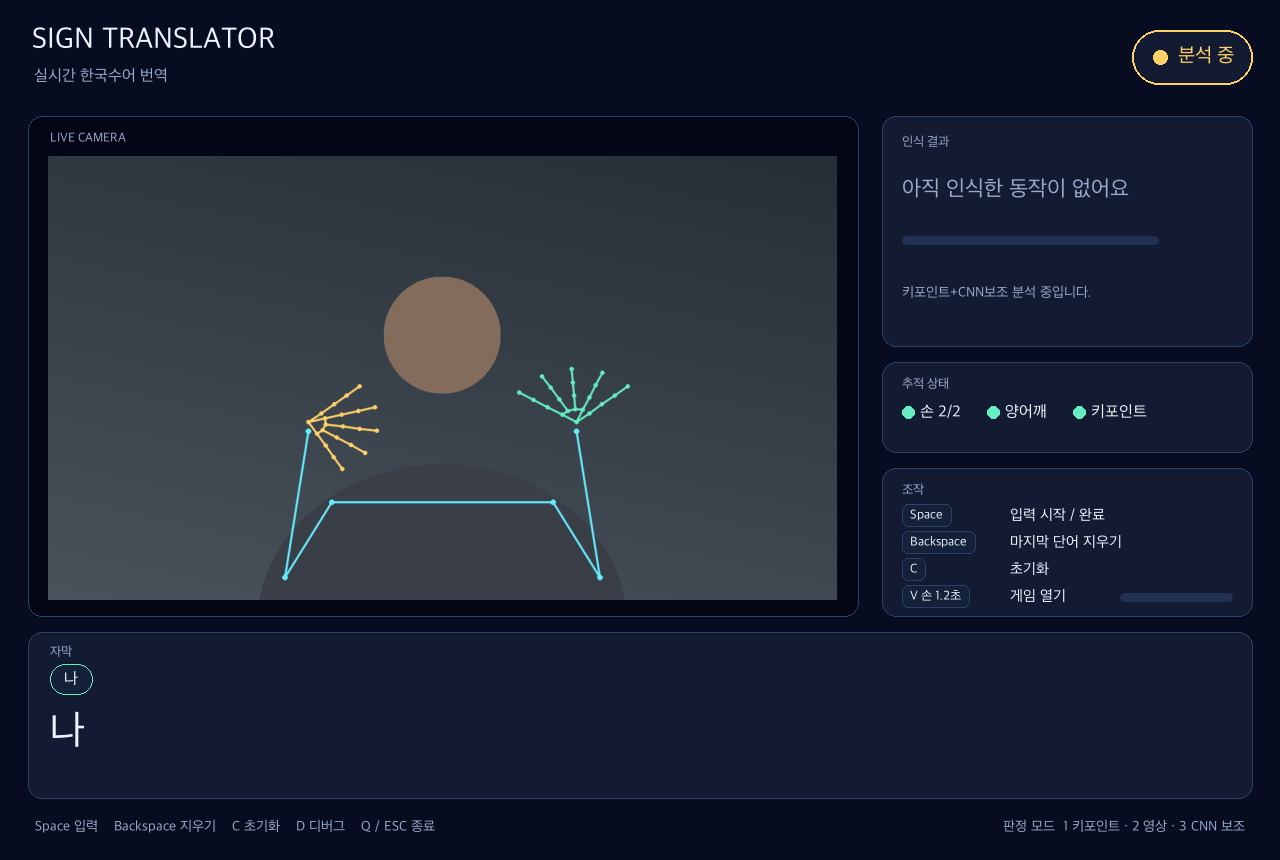
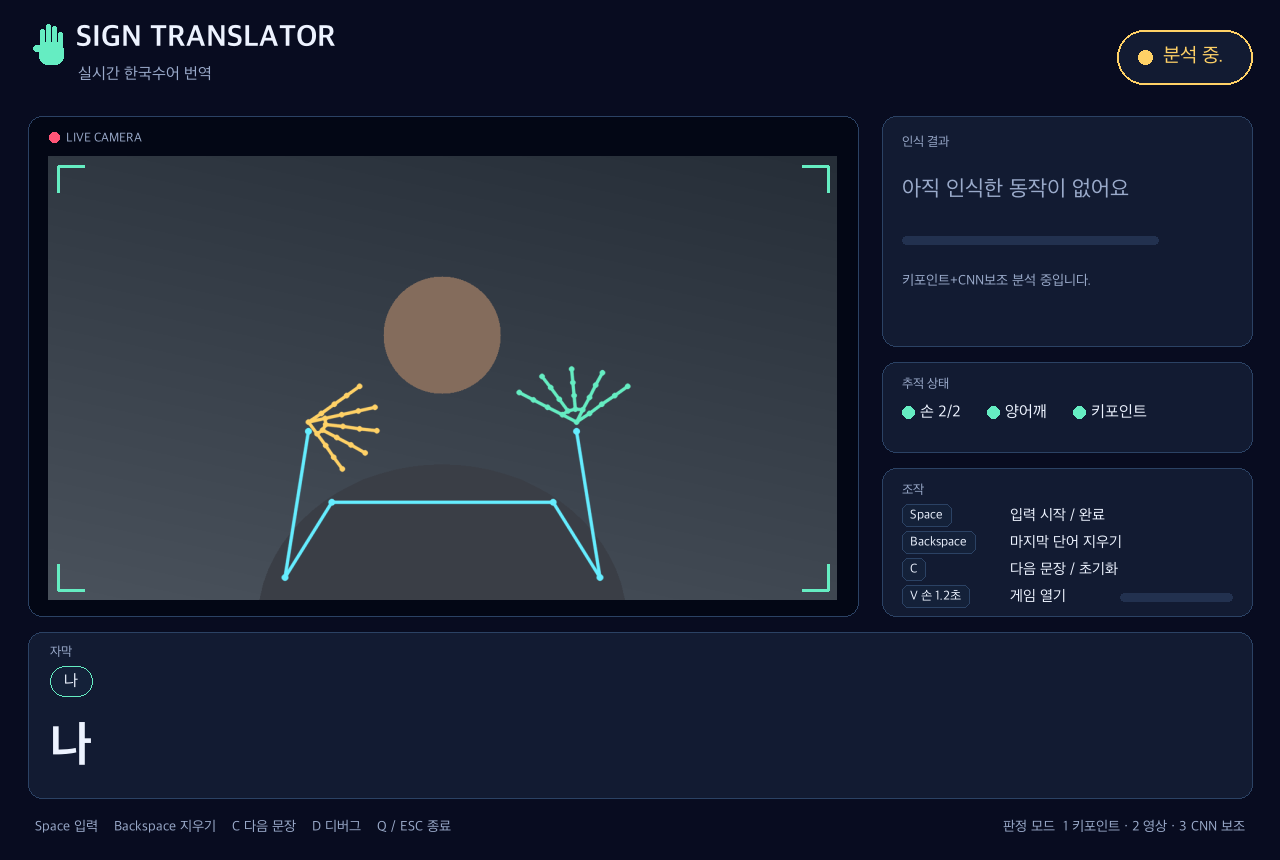
feat(ui): demo polish for the translator screen
- New result pops in (larger word, mint card border for 0.6 s) and the
  newest token chip is filled for 2 s.
- Tracking problems and camera reconnects show as a banner over the
  camera; recording shows a red progress bar against the 12 s limit.
- Subtitle: bold sentence up to 48 px, centred in the card, with the last
  two earlier sentences shown as 'previous'.
- Analyzing badge animates its dots (fixed width, no jitter); game hand-off
  card; viewfinder brackets and LIVE dot on the camera; thicker skeleton.
- Bold title with a drawn hand mark (theme.bold() finds malgunbd, Nanum/
  Noto Bold or the Bold face in a .ttc, else regular).
- Result card lists the last three accepted results.
- New preview PNGs: flash, game hand-off, reconnecting.

diff --git a/ui/translator_view.py b/ui/translator_view.py
@@ -3,7 +3,7 @@
 The camera loop builds a TranslatorState and calls draw_translator(); nothing
 here touches recognition or camera state.
 """
-from dataclasses import dataclass, field
+from dataclasses import dataclass
 from typing import Optional
 import cv2
 import numpy as np
@@ -12,37 +12,45 @@ from ui import theme
 from ui.theme import font
 
 CAMERA_BOX = (28, 116, 858, 616)
+CAMERA_VIEW = (48, 156, 838, 600)      # 790x444 (16:9) image well inside the camera card.
 RESULT_BOX = (882, 116, 1252, 346)
 TRACKING_BOX = (882, 362, 1252, 452)
 CONTROLS_BOX = (882, 468, 1252, 616)
 DEBUG_BOX = (882, 362, 1252, 616)      # Replaces tracking + controls while open.
 SUBTITLE_BOX = (28, 632, 1252, 798)
+FLASH_SECONDS = .6                     # New-result highlight.
+FRESH_SECONDS = 2.                     # Newest token chip stays filled.
 
 
 @dataclass
 class TranslatorState:
-    camera: np.ndarray                    # Mirrored BGR preview, skeleton already drawn.
-    now: float = 0.                       # Drives the blinking REC dot.
-    status: str = 'ready'                 # ready | recording | analyzing
+    camera: Optional[np.ndarray]          # Mirrored BGR preview, skeleton already drawn.
+    now: float = 0.                       # Drives blinking / animated dots.
+    status: str = 'ready'                 # ready | recording | analyzing | reconnecting
     elapsed: float = 0.                   # Seconds recorded so far.
+    record_limit: float = 12.             # Recording auto-cancels after this.
     event: Optional[dict] = None          # Last recognition: accepted/text/score/kind/candidates.
+    event_age: Optional[float] = None     # Seconds since `event` was newly accepted.
     message: str = ''
     tokens: tuple = ()                    # Recognised word texts, in order.
     sentence: str = ''
+    history: tuple = ()                   # Earlier sentences, oldest first.
+    recent: tuple = ()                    # Latest accepted results [(text, score)], newest first.
     hands: int = 0
     shoulders: bool = False
     keypoints: bool = False
     tracking_note: str = ''
+    camera_note: str = ''                 # Banner over the camera (e.g. reconnecting).
     game_progress: Optional[float] = None  # None: V-sign shortcut off.
     game_note: str = ''
+    overlay: Optional[tuple] = None       # (title, text) centred pop-up, e.g. game transition.
     debug: bool = False
     debug_lines: tuple = ()
     rois: Optional[np.ndarray] = None
-    extra: dict = field(default_factory=dict)
 
 
-def _text(draw, x, y, value, size=theme.BODY, color=theme.TEXT, anchor=None):
-    draw.text((x, y), str(value), font=font(size), fill=color, anchor=anchor)
+def _text(draw, x, y, value, size=theme.BODY, color=theme.TEXT, anchor=None, face=None):
+    draw.text((x, y), str(value), font=face or font(size), fill=color, anchor=anchor)
 
 
 def _ellipsis(draw, value, width, size):
@@ -75,41 +83,99 @@ def _key(draw, x, y, label):
     return x + width
 
 
+def _pill(draw, x, y, label, size, filled=False, color=theme.ACCENT, height=30):
+    """Rounded chip; returns its right edge."""
+    width = draw.textlength(label, font=font(size)) + 2*max(10, height//2-1)
+    draw.rounded_rectangle((x, y, x+width, y+height), radius=height//2,
+                           fill=color if filled else theme.CARD_RAISED, outline=color)
+    _text(draw, x+width/2, y+height/2, label, size, theme.BACKGROUND if filled else theme.TEXT, 'mm')
+    return x + width
+
+
+def _translucent(image, box, color=theme.BACKGROUND, alpha=190, radius=10):
+    """Darken `box` in place (only that region is composited)."""
+    left, top, right, bottom = (int(v) for v in box)
+    region = image.crop((left, top, right, bottom)).convert('RGBA')
+    layer = Image.new('RGBA', region.size, (0, 0, 0, 0))
+    ImageDraw.Draw(layer).rounded_rectangle((0, 0, right-left-1, bottom-top-1), radius=radius,
+                                            fill=(*theme.rgb(color), alpha))
+    image.paste(Image.alpha_composite(region, layer).convert('RGB'), (left, top))
+
+
+def _hand_icon(draw, x, y, color=theme.ACCENT):
+    """Small open-hand mark drawn with shapes (no emoji/font dependency)."""
+    draw.rounded_rectangle((x+5, y+18, x+29, y+40), radius=8, fill=color)          # Palm.
+    for i, height in enumerate((17, 22, 20, 14)):                                  # Fingers.
+        left = x+6+i*6
+        draw.rounded_rectangle((left, y+22-height, left+4, y+24), radius=2, fill=color)
+    draw.rounded_rectangle((x-1, y+21, x+9, y+27), radius=3, fill=color)          # Thumb.
+
+
 def _header(draw, state):
-    _text(draw, 32, 22, 'SIGN TRANSLATOR', theme.TITLE)
-    _text(draw, 34, 66, '실시간 한국수어 번역', 16, theme.MUTED)
+    _hand_icon(draw, 34, 24)
+    _text(draw, 76, 20, 'SIGN TRANSLATOR', theme.TITLE, face=theme.bold(theme.TITLE))
+    _text(draw, 78, 64, '실시간 한국수어 번역', 16, theme.MUTED)
     if state.status == 'recording':
         color, label = theme.RECORDING, f'입력 중 {state.elapsed:.1f}초'
         blink = int(state.now*2) % 2 == 0
     elif state.status == 'analyzing':
-        color, label, blink = theme.WARNING, '분석 중', True
+        color, label, blink = theme.WARNING, '분석 중' + '.'*(int(state.now*3) % 3 + 1), True
+    elif state.status == 'reconnecting':
+        color, label, blink = theme.WARNING, '카메라 연결 중', int(state.now*2) % 2 == 0
     else:
         color, label, blink = theme.ACCENT, '입력 대기', True
-    width = draw.textlength(label, font=font(20)) + 64
+    # Fixed width per status so animated dots do not make the badge jitter.
+    sizing = {'analyzing': '분석 중...', 'recording': '입력 중 00.0초'}.get(state.status, label)
+    width = draw.textlength(sizing, font=font(20)) + 64
     left = 1252 - width
     theme.card(draw, (left, 30, 1252, 84), theme.CARD, color, radius=27, width=2)
     _dot(draw, left+28, 57, color if blink else theme.TRACK, 7)
     _text(draw, left+46, 44, label, 20, color)
 
 
+def _brackets(draw, box, color, length=26, width=3):
+    left, top, right, bottom = box
+    for x, y, dx, dy in ((left, top, 1, 1), (right, top, -1, 1), (left, bottom, 1, -1), (right, bottom, -1, -1)):
+        draw.line((x, y, x+dx*length, y), fill=color, width=width)
+        draw.line((x, y, x, y+dy*length), fill=color, width=width)
+
+
 def _camera(image, draw, state):
-    outline = theme.RECORDING if state.status == 'recording' else theme.CARD_BORDER
-    theme.card(draw, CAMERA_BOX, theme.CARD_DEEP, outline, width=2 if state.status == 'recording' else 1)
-    _text(draw, 50, 130, 'LIVE CAMERA', theme.SMALL, theme.MUTED)
-    left, top, width, height = 48, 156, 790, 444
+    recording = state.status == 'recording'
+    theme.card(draw, CAMERA_BOX, theme.CARD_DEEP, theme.RECORDING if recording else theme.CARD_BORDER,
+               width=2 if recording else 1)
+    live = state.status != 'reconnecting'
+    _dot(draw, 54, 137, theme.RECORDING if live and (not recording or int(state.now*2) % 2 == 0) else theme.TRACK, 5)
+    _text(draw, 66, 130, 'LIVE CAMERA', theme.SMALL, theme.MUTED)
+    left, top, right, bottom = CAMERA_VIEW
+    width, height = right-left, bottom-top
     frame = state.camera
     if frame is None or frame.size == 0:
         _text(draw, left+width//2, top+height//2, '카메라 영상 없음', theme.BODY, theme.MUTED, 'mm')
-        return
-    h, w = frame.shape[:2]
-    scale = min(width/w, height/h)
-    size = (max(1, round(w*scale)), max(1, round(h*scale)))
-    resized = cv2.resize(frame, size, interpolation=cv2.INTER_AREA if scale < 1 else cv2.INTER_LINEAR)
-    image.paste(theme.to_pil(resized), (left+(width-size[0])//2, top+(height-size[1])//2))
+    else:
+        h, w = frame.shape[:2]
+        scale = min(width/w, height/h)
+        size = (max(1, round(w*scale)), max(1, round(h*scale)))
+        resized = cv2.resize(frame, size, interpolation=cv2.INTER_AREA if scale < 1 else cv2.INTER_LINEAR)
+        image.paste(theme.to_pil(resized), (left+(width-size[0])//2, top+(height-size[1])//2))
+    _brackets(draw, (left+10, top+10, right-10, bottom-10), theme.RECORDING if recording else theme.ACCENT)
+    note = state.camera_note or ('' if state.keypoints or state.status == 'analyzing' else state.tracking_note)
+    if note:
+        banner = (left+150, bottom-62, right-150, bottom-20)
+        _translucent(image, banner)
+        draw = ImageDraw.Draw(image)
+        _dot(draw, banner[0]+22, (banner[1]+banner[3])//2, theme.WARNING, 6)
+        _text(draw, banner[0]+38, (banner[1]+banner[3])//2, _ellipsis(draw, note, banner[2]-banner[0]-56, 17),
+              17, theme.TEXT, 'lm')
+    if recording:
+        _bar(draw, (left, 606, right, 611), state.elapsed/max(state.record_limit, 1e-6), theme.RECORDING)
+    return draw
 
 
 def _result(draw, state):
-    theme.card(draw, RESULT_BOX)
+    age = state.event_age
+    flashing = age is not None and 0 <= age < FLASH_SECONDS
+    theme.card(draw, RESULT_BOX, theme.CARD, theme.ACCENT if flashing else theme.CARD_BORDER, width=3 if flashing else 1)
     x, right = 902, 1232
     _text(draw, x, 134, '인식 결과', theme.SMALL, theme.MUTED)
     event = state.event
@@ -124,6 +190,9 @@ def _result(draw, state):
     elif event.get('accepted'):
         text = event.get('text') or ''
         size = theme.fit_size(draw, text, right-x, (44, 36, 30, 26))
+        if flashing:  # Pop in: start slightly larger and settle.
+            size = round(size*(1+.18*(1-age/FLASH_SECONDS)))
+            size = min(size, theme.fit_size(draw, text, right-x, tuple(range(size, 25, -2))))
         bottom = theme.wrapped_text(draw, text, x, 168, right-x, size, theme.ACCENT, 2, 6)
         score = float(event.get('score') or 0)
         bar_y = max(bottom+10, 236)
@@ -138,7 +207,23 @@ def _result(draw, state):
         _bar(draw, (x, 248, right-74, 256), score, theme.WARNING)
         _text(draw, right, 252, f'{score:.0%}', 15, theme.MUTED, 'rm')
     if state.message:
-        theme.wrapped_text(draw, state.message, x, 284, right-x, 14, theme.MUTED, 2, 6)
+        if state.recent:   # One line; the recent chips sit just below.
+            _text(draw, x, 272, _ellipsis(draw, state.message, right-x, 14), 14, theme.MUTED)
+        else:
+            lines = theme.wrap_lines(draw, state.message, right-x, 14)
+            if len(lines) > 2:
+                lines = [lines[0], _ellipsis(draw, ''.join(lines[1:]), right-x, 14)]
+            for i, line in enumerate(lines):
+                _text(draw, x, 272+i*21, line, 14, theme.MUTED)
+    if state.recent:
+        _text(draw, x, 312, '최근', 12, theme.MUTED)
+        cx = x + 34
+        for text, score in state.recent[:3]:
+            label = f'{text} {score:.0%}'
+            width = draw.textlength(label, font=font(12)) + 20
+            if cx + width > right:
+                break
+            cx = _pill(draw, cx, 306, label, 12, height=24, color=theme.CARD_BORDER) + 6
 
 
 def _tracking(draw, state):
@@ -157,7 +242,7 @@ def _tracking(draw, state):
 def _controls(draw, state):
     theme.card(draw, CONTROLS_BOX)
     _text(draw, 902, 482, '조작', theme.SMALL, theme.MUTED)
-    rows = (('Space', '입력 시작 / 완료'), ('Backspace', '마지막 단어 지우기'), ('C', '초기화'))
+    rows = (('Space', '입력 시작 / 완료'), ('Backspace', '마지막 단어 지우기'), ('C', '다음 문장 / 초기화'))
     for i, (key, label) in enumerate(rows):
         y = 504 + i*27
         _key(draw, 902, y, key)
@@ -193,24 +278,46 @@ def _debug(image, draw, state):
 def _subtitle(draw, state):
     theme.card(draw, SUBTITLE_BOX)
     _text(draw, 50, 644, '자막', theme.SMALL, theme.MUTED)
-    x, y, limit = 50, 664, 1230
-    shown = 0
-    for token in state.tokens:
-        width = draw.textlength(token, font=font(16)) + 28
-        if x + width > limit - 60:
-            break
-        draw.rounded_rectangle((x, y, x+width, y+30), radius=15, fill=theme.CARD_RAISED, outline=theme.ACCENT)
-        _text(draw, x+width/2, y+15, token, 16, theme.TEXT, 'mm')
-        x += width + 8
-        shown += 1
-    if shown < len(state.tokens):
-        _text(draw, x+4, y+5, f'+{len(state.tokens)-shown}', 16, theme.MUTED)
-    width = limit - 50
+    left, right = 50, 1230
+    if state.history:
+        earlier = '   ·   '.join(state.history[-2:])
+        _text(draw, right, 644, _ellipsis(draw, '이전  ' + earlier, 900, 14), 14, theme.MUTED, 'ra')
+    top = 666
+    if state.tokens:
+        x, shown = left, 0
+        fresh = state.event_age is not None and state.event_age < FRESH_SECONDS
+        for i, token in enumerate(state.tokens):
+            width = draw.textlength(token, font=font(16)) + 28
+            if x + width > right - 60:
+                break
+            x = _pill(draw, x, top, token, 16, filled=fresh and i == len(state.tokens)-1) + 8
+            shown += 1
+        if shown < len(state.tokens):
+            _text(draw, x+4, top+5, f'+{len(state.tokens)-shown}', 16, theme.MUTED)
+        top += 38
+    area = SUBTITLE_BOX[3] - 12 - top   # Vertical space left for the sentence.
+    width = right - left
     if state.sentence:
-        size = theme.fit_size(draw, state.sentence, width, (theme.CAPTION, 34, 28))
-        theme.wrapped_text(draw, state.sentence, 50, 708, width, size, theme.TEXT, 2, 6)
+        size = theme.fit_size(draw, state.sentence, width, (48, 42, 36, 30))
+        lines = theme.wrap_lines(draw, state.sentence, width, size)[:2]
+        if len(lines) > 1 and size > 30:
+            size = 30
+            lines = theme.wrap_lines(draw, state.sentence, width, size)[:2]
+        block = len(lines)*(size+6) - 6
+        y = top + max(0, (area-block)//2) - 4
+        for i, line in enumerate(lines):
+            _text(draw, left, y+i*(size+6), line, size, theme.TEXT, face=theme.bold(size))
     else:
-        _text(draw, 50, 718, '인식한 단어와 문장이 여기에 자막으로 표시됩니다', 22, theme.MUTED)
+        _text(draw, left, top + area//2, '인식한 단어와 문장이 여기에 자막으로 표시됩니다', 22, theme.MUTED, 'lm')
+
+
+def _overlay(image, state):
+    title, text = state.overlay
+    _translucent(image, (0, 0, theme.WIDTH, theme.HEIGHT), alpha=150, radius=0)
+    draw = ImageDraw.Draw(image)
+    theme.card(draw, (315, 340, 965, 500), theme.CARD_RAISED, theme.ACCENT, width=2)
+    _text(draw, 640, 392, title, 30, theme.ACCENT, 'mm', face=theme.bold(30))
+    _text(draw, 640, 450, text, 17, theme.MUTED, 'mm')
 
 
 def draw_translator(state):
@@ -218,7 +325,7 @@ def draw_translator(state):
     image = Image.new('RGB', (theme.WIDTH, theme.HEIGHT), theme.BACKGROUND)
     draw = ImageDraw.Draw(image)
     _header(draw, state)
-    _camera(image, draw, state)
+    draw = _camera(image, draw, state)
     _result(draw, state)
     if state.debug:
         _debug(image, draw, state)
@@ -226,6 +333,8 @@ def draw_translator(state):
         _tracking(draw, state)
         _controls(draw, state)
     _subtitle(draw, state)
-    _text(draw, 35, 818, 'Space 입력    Backspace 지우기    C 초기화    D 디버그    Q / ESC 종료', 14, theme.MUTED)
+    _text(draw, 35, 818, 'Space 입력    Backspace 지우기    C 다음 문장    D 디버그    Q / ESC 종료', 14, theme.MUTED)
     _text(draw, 1245, 818, '판정 모드  1 키포인트 · 2 영상 · 3 CNN 보조', 14, theme.MUTED, 'ra')
+    if state.overlay:
+        _overlay(image, state)
     return theme.to_bgr(image)

diff --git a/scripts/render_ui_preview.py b/scripts/render_ui_preview.py
@@ -58,8 +58,13 @@ def states(camera):
                                                 message='입력 중: 동작을 마치면 Space를 누르세요.', tokens=('나',), sentence='나'),
         'translator_analyzing': TranslatorState(**base, status='analyzing', message='키포인트+CNN보조 분석 중입니다.',
                                                 tokens=('나',), sentence='나'),
-        'translator_word': TranslatorState(**{**base, 'game_progress': .55}, event=word, tokens=('나', '행복'), sentence='저는 행복해요.',
+        'translator_word': TranslatorState(**{**base, 'game_progress': .55}, event=word, event_age=5., tokens=('나', '행복'),
+                                           sentence='저는 행복해요.', history=('안녕하세요.', '밥을 주세요.'),
+                                           recent=(('행복', .91), ('나', .88), ('밥을 주세요.', .83)),
                                            message='키포인트+CNN보조: 행복 · 0.91 · 분석 0.18초'),
+        'translator_word_flash': TranslatorState(**base, event=word, event_age=.05, tokens=('나', '행복'), sentence='저는 행복해요.',
+                                                 recent=(('행복', .91), ('나', .88)),
+                                                 message='키포인트+CNN보조: 행복 · 0.91 · 분석 0.18초'),
         'translator_retry': TranslatorState(**{**base, 'hands': 1, 'keypoints': False}, tracking_note='손과 양어깨 위치를 함께 확인하세요',
                                             event=dict(accepted=False, kind=None, text='감사', score=.58,
                                                        candidates=[('감사', .58), ('죄송', .31), ('부탁', .05)]),
@@ -69,6 +74,11 @@ def states(camera):
                                             debug_lines=('판정 모드: 키포인트+CNN보조 / 30클래스', '출력 기준: 점수 0.75 / 차이 0.15',
                                                          '키포인트: 행복 0.71', '영상: 행복 0.88', 'CNN 후보 일치 확인'),
                                             rois=rois, message='키포인트+CNN보조: 행복 · 0.91 · 분석 0.62초'),
+        'translator_game_handoff': TranslatorState(**{**base, 'game_progress': 1.}, tokens=('나',), sentence='나',
+                                                   overlay=('SIGN GALAGA로 이동합니다', '게임에서 Q 또는 Esc를 누르면 번역 화면으로 돌아옵니다')),
+        'translator_reconnecting': TranslatorState(**{**base, 'hands': 0, 'shoulders': False, 'keypoints': False},
+                                                   status='reconnecting', camera_note='카메라 다시 연결 중…',
+                                                   message='카메라 입력이 끊겨 녹화를 취소했습니다. Space로 다시 시작하세요.'),
     }
 
 

diff --git a/ui/theme.py b/ui/theme.py
@@ -53,6 +53,35 @@ def font(size):
     return get_font().font_variant(size=size)
 
 
+@lru_cache(maxsize=1)
+def _bold_base():
+    """Bold Hangul face if one is installed; falls back to the regular font."""
+    import os
+    from pathlib import Path
+    from PIL import ImageFont
+    for path in (os.environ.get('KSL_FONT_BOLD', ''), 'C:/Windows/Fonts/malgunbd.ttf',
+                 '/usr/share/fonts/truetype/nanum/NanumGothicBold.ttf',
+                 '/usr/share/fonts/opentype/noto/NotoSansCJK-Bold.ttc'):
+        if path and Path(path).is_file():
+            return ImageFont.truetype(path, 18)
+    regular = get_font()
+    path = getattr(regular, 'path', '')
+    if str(path).lower().endswith('.ttc'):  # e.g. macOS Apple SD Gothic Neo.
+        for index in range(32):
+            try:
+                face = ImageFont.truetype(path, 18, index=index)
+            except OSError:
+                break
+            if face.getname()[1] == 'Bold':
+                return face
+    return regular
+
+
+@lru_cache(maxsize=12)
+def bold(size):
+    return _bold_base().font_variant(size=size)
+
+
 def card(draw, box, fill=CARD, outline=CARD_BORDER, radius=RADIUS, width=1):
     draw.rounded_rectangle(box, radius=radius, fill=fill, outline=outline, width=width)
 

diff --git a/fusion/preview.py b/fusion/preview.py
@@ -124,10 +124,10 @@ def draw_skeleton(frame,snapshot,now,mirror=True):
     def draw(points,edges,color,confidence=False):
         coords=[point(p) if not confidence or p[2]>=.5 else None for p in points]
         for a,b in edges:
-            if a<len(coords) and b<len(coords) and coords[a] is not None and coords[b] is not None:cv2.line(frame,coords[a],coords[b],color,2,cv2.LINE_AA)
+            if a<len(coords) and b<len(coords) and coords[a] is not None and coords[b] is not None:cv2.line(frame,coords[a],coords[b],color,3,cv2.LINE_AA)
         selected=BODY_POINTS if confidence else range(len(points))
         for i in selected:
-            if i<len(coords) and coords[i] is not None:cv2.circle(frame,coords[i],4 if confidence else 3,color,-1,cv2.LINE_AA)
+            if i<len(coords) and coords[i] is not None:cv2.circle(frame,coords[i],5 if confidence else 4,color,-1,cv2.LINE_AA)
     if snapshot.pose:draw(snapshot.pose,BODY_EDGES,BODY_COLOR,True)
     for i,hand in enumerate(snapshot.hands):draw(hand,HAND_EDGES,HAND_COLORS[i%2])
     return frame
